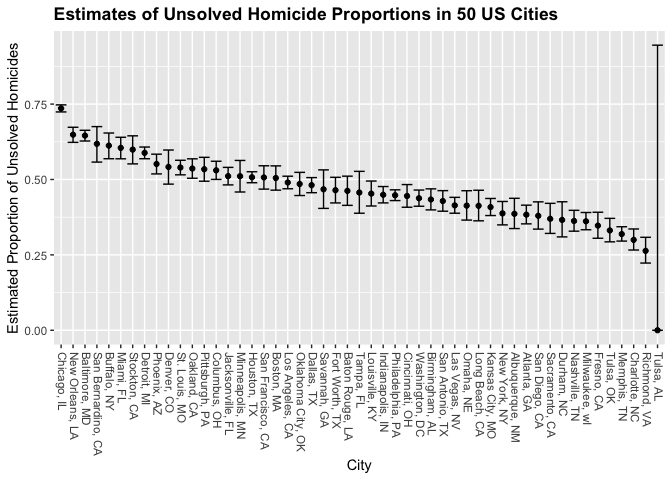
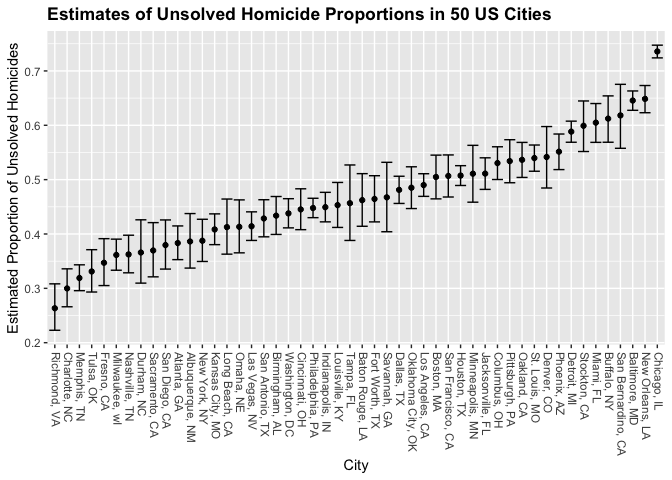
complete through problem 3

diff --git a/p8105_hw5_tlm2152.md b/p8105_hw5_tlm2152.md
@@ -12,10 +12,11 @@ library(tidyverse)
 ``` r
 hom_url <- "https://raw.githubusercontent.com/washingtonpost/data-homicides/master/homicide-data.csv"
 
-hom_data <- read_csv(hom_url)
+hom_data <- 
+  read_csv(hom_url, na = c("", "Unknown"))
 ```
 
-The homicide data set above, `hom_data`, from **The Washington Post**
+The homicide data set above, `hom_data`, from *The Washington Post*
 includes 52179 observations of 12 variables including `city`, `state`,
 victim characteristics, and `disposition` characterizing the outcome or
 status of the homicide.
@@ -24,6 +25,7 @@ status of the homicide.
 city_state_summ <- 
   hom_data %>% 
   unite(city_state, c("city", "state"), sep = ", ") %>% 
+  filter(city_state != "Tulsa, AL") %>% 
   group_by(city_state) %>% 
   summarise(total_hom = n(),
             total_unsolved = sum(disposition == "Closed without arrest" | disposition == "Open/No arrest"))
@@ -35,26 +37,50 @@ balt_md <-
   filter(city_state == "Baltimore, MD") 
 
 balt_prop <- 
-  prop.test(x = pull(balt_md, total_unsolved), n = pull(balt_md, total_hom)) %>% 
+  prop.test(x = balt_md %>% pull(total_unsolved),
+            n = balt_md %>% pull(total_hom)) %>% 
   broom::tidy() %>% 
   mutate(conf.low = round(conf.low, digits = 4)) %>% 
   mutate(conf.high = round(conf.high, digits = 4)) %>% 
   select(estimate, conf.low, conf.high)
 ```
 
+Now I’ll create a function to iterate across each city, which mimics the
+process above.
+
+``` r
+prop_est_function <- function(city){
+  
+  city_df <- 
+    city_state_summ %>% 
+    filter(city_state == city)
+  
+  city_prop <- 
+    prop.test(x = city_df %>% pull(total_unsolved),
+              n = city_df %>% pull(total_hom))
+  
+  output = broom::tidy(city_prop)
+  
+}
+```
+
+Here, I use `map()` to iterate the function across each `city_state`.
+
 ``` r
 homicide_est <- 
-  city_state_summ %>% 
-  rowwise() %>% 
-  mutate(prop_est = list(broom::tidy(prop.test(total_unsolved, total_hom)))) %>% 
+  city_state_summ %>%  
+  mutate(prop_est = map(.x = city_state, .f = prop_est_function)) %>% 
   unnest(prop_est) %>% 
-  select(-statistic, -p.value, -parameter, -method, -alternative) %>% 
+  select(city_state, total_hom, total_unsolved, estimate, conf.low, conf.high) %>% 
   janitor::clean_names()
 ```
 
+Below, I create a plot to show the point estimates and confidence
+intervals for proportion of unsolved homicides in each city.
+
 ``` r
 homicide_est %>% 
-  mutate(city_state = factor(city_state, levels = city_state[order(estimate, decreasing = TRUE)])) %>% 
+  mutate(city_state = fct_reorder(city_state, estimate, .desc = FALSE)) %>% 
   ggplot(aes(x = city_state, y = estimate)) +
   geom_point() +
   geom_errorbar(aes(ymin = conf_low, ymax = conf_high)) +
@@ -173,36 +199,42 @@ values.
 iris_with_missing <- 
   iris %>% 
   map_df(~replace(.x, sample(1:150, 20), NA)) %>%
-  mutate(Species = as.character(Species)) %>% 
-  janitor::clean_names()
+  mutate(Species = as.character(Species))
 ```
 
+The function below will check that the input is a character or numeric
+value, then it will replace character NA values with “virginica” and
+replace numeric NA values with the mean of the provided vector.
+
 ``` r
-iris_replace <- function(vec) {
+iris_replace <- function(x) {
   
-  if (is.vector(vec)) {
-    if (is.na(vec)) {
-      if (is.character(vec)) {
-        output = "virginica"
-        } else 
-      if (is.numeric(vec)) {
-        output = mean(vec, na.rm = TRUE)
-    } else 
-      stop("input must be numeric or character")
-  } else {
-    output = vec
-    }
-  } else 
-  stop("input must be a vector")
-    
+    if (is.character(x)) {
+        x[is.na(x)] = "virginica"
+    } else if (is.numeric(x)) {
+        x[is.na(x)] = mean(x, na.rm = TRUE)
+    } else stop("Input must be a numeric or character value.")
+  return(x)
 }
 ```
 
+I’ll use a `for` loop to iterate across each column.
+
 ``` r
-iris_full <- 
-  iris_with_missing %>% 
-  mutate(species = map(.x = species, .f = iris_replace)) %>% 
-  mutate(sepal_length = map(.x = sepal_length, .f = iris_replace))
-# Still encountering issues here with the numeric column returning "NaN"
-# I think there must be an issue with my conditions
+  for (i in 1:5) {
+    iris_with_missing[i] = map(iris_with_missing[i], ~iris_replace(.x))
+  }
 ```
+
+The below data frame should include any rows with NA values.
+
+``` r
+na_check <- iris_with_missing[rowSums(is.na(iris_with_missing)) > 0,]
+na_check
+```
+
+    ## # A tibble: 0 × 5
+    ## # … with 5 variables: Sepal.Length <dbl>, Sepal.Width <dbl>,
+    ## #   Petal.Length <dbl>, Petal.Width <dbl>, Species <chr>
+
+Looks like everything has been replaced properly.
